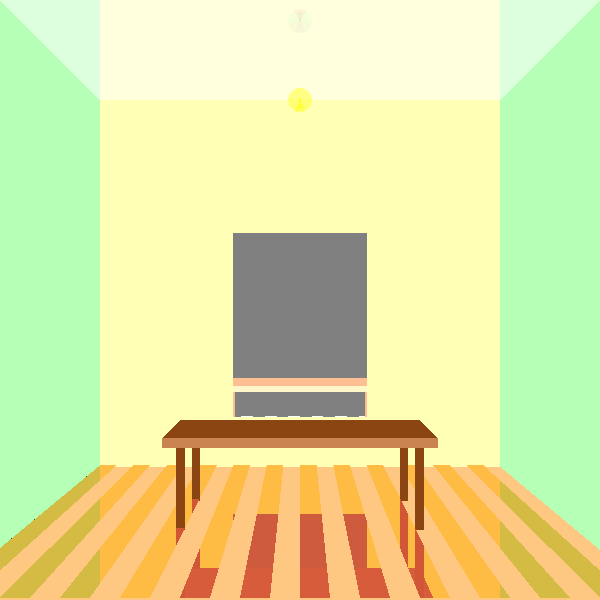
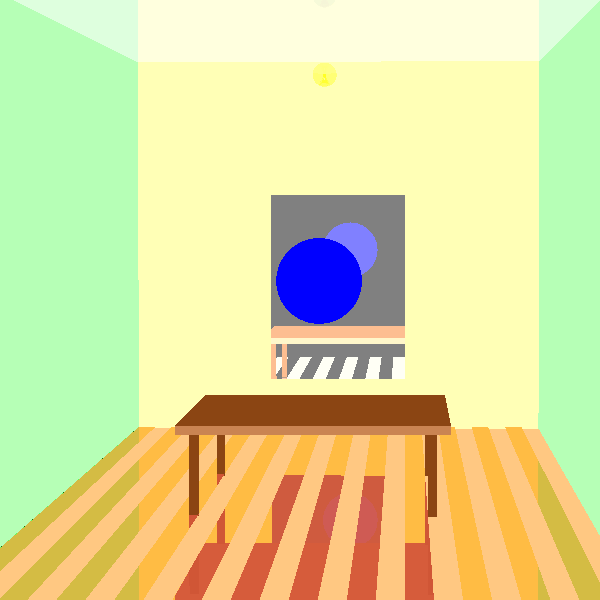
Stage 7: room start

diff --git a/unitTests/mainModel/mainModel.java b/unitTests/mainModel/mainModel.java
@@ -27,8 +27,8 @@ public class mainModel {
 
     @Test
     public void room(){
-        Camera camera = new Camera(new Point(0, 0, 700), new Vector(0, 0, -1), new Vector(0, 1, 0))
-                .setVPSize(200, 200).setVPDistance(1000).tiltCamera(0);
+        Camera camera = new Camera(new Point(20, 20, 700), new Vector(0, 0, -1), new Vector(0, 1, 0))
+                .setVPSize(200, 200).setVPDistance(1000).tiltCamera(-2).adjustHorizontalRotation(-2);
 
         Geometries geometries = new Geometries(
                 new Polygon(
@@ -461,6 +461,8 @@ public class mainModel {
                         .setEmission(new Color(139, 69, 19))
                         .setMaterial(new Material()
                                 .setKd(0.7).setKs(0.3))
+                ,
+                new Sphere(new Point(0,0,0),10d).setEmission(new Color(BLUE))
                 );
 
 
@@ -469,22 +471,7 @@ public class mainModel {
         scene = new Scene.SceneBuilder("Test scene snell")
                 .setGeometries(geometries)
                 .setLights(
-                        new SpotLight(
-                                new Color(255,255,255),
-                                new Point(0,60,-100),
-                                new Vector(0,-1,0)).setNarrowBeam(40).setKl(0.0004).setKq(0.0000006)
-                        ,
-                        new SpotLight(
-                                new Color(255,255,255),
-                                new Point(20,60,0),
-                                new Vector(0,-1,0)).setNarrowBeam(40).setKl(0.0004).setKq(0.0000006)
-                        ,
-                        new SpotLight(
-                                new Color(255,255,255),
-                                new Point(20,60,100),
-                                new Vector(0,-1,0)).setNarrowBeam(40).setKl(0.0004).setKq(0.0000006)
-                        ,
-                        new PointLight(new Color(255,255,255).reduce(1.5),new Point(0, 60, -50))
+                       // new PointLight(new Color(255,255,255).reduce(1.5),new Point(0, 60, -50))
                           )
                 .build();
 
